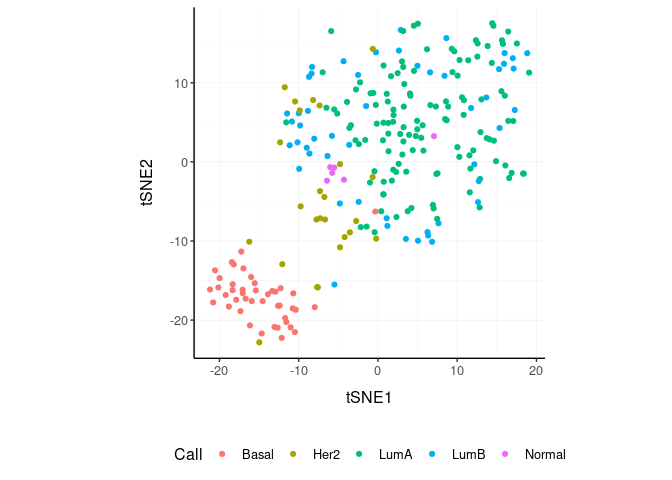
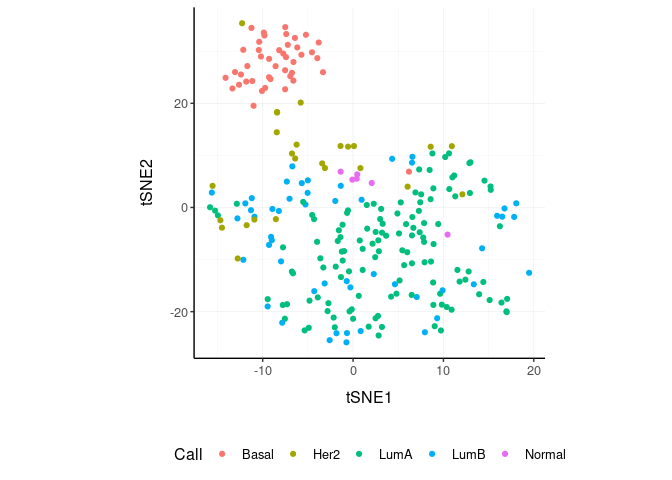
update README with badges

diff --git a/README.md b/README.md
@@ -1,8 +1,8 @@
 tidybulk - part of tidyTranscriptomics
 ================
 
-<!-- badges: start --> [![Lifecycle:
-maturing](https://img.shields.io/badge/lifecycle-maturing-blue.svg)](https://www.tidyverse.org/lifecycle/#maturing)
+<!-- badges: start -->
+[![Lifecycle:maturing](https://img.shields.io/badge/lifecycle-maturing-blue.svg)](https://www.tidyverse.org/lifecycle/#maturing)
 <!-- badges: end -->
 
 <!---
@@ -425,18 +425,18 @@ counts.norm.tSNE %>%
 ```
 
     ## # A tibble: 251 x 4
-    ##      tSNE1  tSNE2 sample                       Call 
-    ##      <dbl>  <dbl> <chr>                        <fct>
-    ##  1   4.04    8.64 TCGA-A1-A0SD-01A-11R-A115-07 LumA 
-    ##  2   0.421  -6.24 TCGA-A1-A0SF-01A-11R-A144-07 LumA 
-    ##  3   9.64   14.0  TCGA-A1-A0SG-01A-11R-A144-07 LumA 
-    ##  4  -5.14    6.11 TCGA-A1-A0SH-01A-11R-A084-07 LumA 
-    ##  5  -1.50    7.06 TCGA-A1-A0SI-01A-11R-A144-07 LumB 
-    ##  6   6.94   -5.44 TCGA-A1-A0SJ-01A-11R-A084-07 LumA 
-    ##  7 -21.2   -16.1  TCGA-A1-A0SK-01A-12R-A084-07 Basal
-    ##  8 -11.6     5.00 TCGA-A1-A0SM-01A-11R-A084-07 LumA 
-    ##  9 -11.5     6.12 TCGA-A1-A0SN-01A-11R-A144-07 LumB 
-    ## 10  15.7    15.4  TCGA-A1-A0SQ-01A-21R-A144-07 LumA 
+    ##     tSNE1    tSNE2 sample                       Call 
+    ##     <dbl>    <dbl> <chr>                        <fct>
+    ##  1  -1.24  -8.47   TCGA-A1-A0SD-01A-11R-A115-07 LumA 
+    ##  2   7.31   7.30   TCGA-A1-A0SF-01A-11R-A144-07 LumA 
+    ##  3  -6.64 -12.6    TCGA-A1-A0SG-01A-11R-A144-07 LumA 
+    ##  4 -15.8    0.0394 TCGA-A1-A0SH-01A-11R-A084-07 LumA 
+    ##  5 -15.6    2.87   TCGA-A1-A0SI-01A-11R-A144-07 LumB 
+    ##  6  -4.32  -2.23   TCGA-A1-A0SJ-01A-11R-A084-07 LumA 
+    ##  7  -5.22  33.1    TCGA-A1-A0SK-01A-12R-A084-07 Basal
+    ##  8 -12.9    0.711  TCGA-A1-A0SM-01A-11R-A084-07 LumA 
+    ##  9 -11.3   -0.525  TCGA-A1-A0SN-01A-11R-A144-07 LumB 
+    ## 10   2.83 -24.6    TCGA-A1-A0SQ-01A-21R-A144-07 LumA 
     ## # … with 241 more rows
 
 ``` r
@@ -839,18 +839,18 @@ counts.norm.SNN %>%
 ```
 
     ## # A tibble: 251 x 4
-    ##      tSNE1  tSNE2 `cluster SNN` sample                      
-    ##      <dbl>  <dbl> <fct>         <chr>                       
-    ##  1   4.04    8.64 0             TCGA-A1-A0SD-01A-11R-A115-07
-    ##  2   0.421  -6.24 2             TCGA-A1-A0SF-01A-11R-A144-07
-    ##  3   9.64   14.0  1             TCGA-A1-A0SG-01A-11R-A144-07
-    ##  4  -5.14    6.11 0             TCGA-A1-A0SH-01A-11R-A084-07
-    ##  5  -1.50    7.06 0             TCGA-A1-A0SI-01A-11R-A144-07
-    ##  6   6.94   -5.44 1             TCGA-A1-A0SJ-01A-11R-A084-07
-    ##  7 -21.2   -16.1  3             TCGA-A1-A0SK-01A-12R-A084-07
-    ##  8 -11.6     5.00 2             TCGA-A1-A0SM-01A-11R-A084-07
-    ##  9 -11.5     6.12 2             TCGA-A1-A0SN-01A-11R-A144-07
-    ## 10  15.7    15.4  1             TCGA-A1-A0SQ-01A-21R-A144-07
+    ##     tSNE1    tSNE2 `cluster SNN` sample                      
+    ##     <dbl>    <dbl> <fct>         <chr>                       
+    ##  1  -1.24  -8.47   0             TCGA-A1-A0SD-01A-11R-A115-07
+    ##  2   7.31   7.30   2             TCGA-A1-A0SF-01A-11R-A144-07
+    ##  3  -6.64 -12.6    1             TCGA-A1-A0SG-01A-11R-A144-07
+    ##  4 -15.8    0.0394 0             TCGA-A1-A0SH-01A-11R-A084-07
+    ##  5 -15.6    2.87   0             TCGA-A1-A0SI-01A-11R-A144-07
+    ##  6  -4.32  -2.23   1             TCGA-A1-A0SJ-01A-11R-A084-07
+    ##  7  -5.22  33.1    3             TCGA-A1-A0SK-01A-12R-A084-07
+    ##  8 -12.9    0.711  2             TCGA-A1-A0SM-01A-11R-A084-07
+    ##  9 -11.3   -0.525  2             TCGA-A1-A0SN-01A-11R-A144-07
+    ## 10   2.83 -24.6    1             TCGA-A1-A0SQ-01A-21R-A144-07
     ## # … with 241 more rows
 
 ``` r
